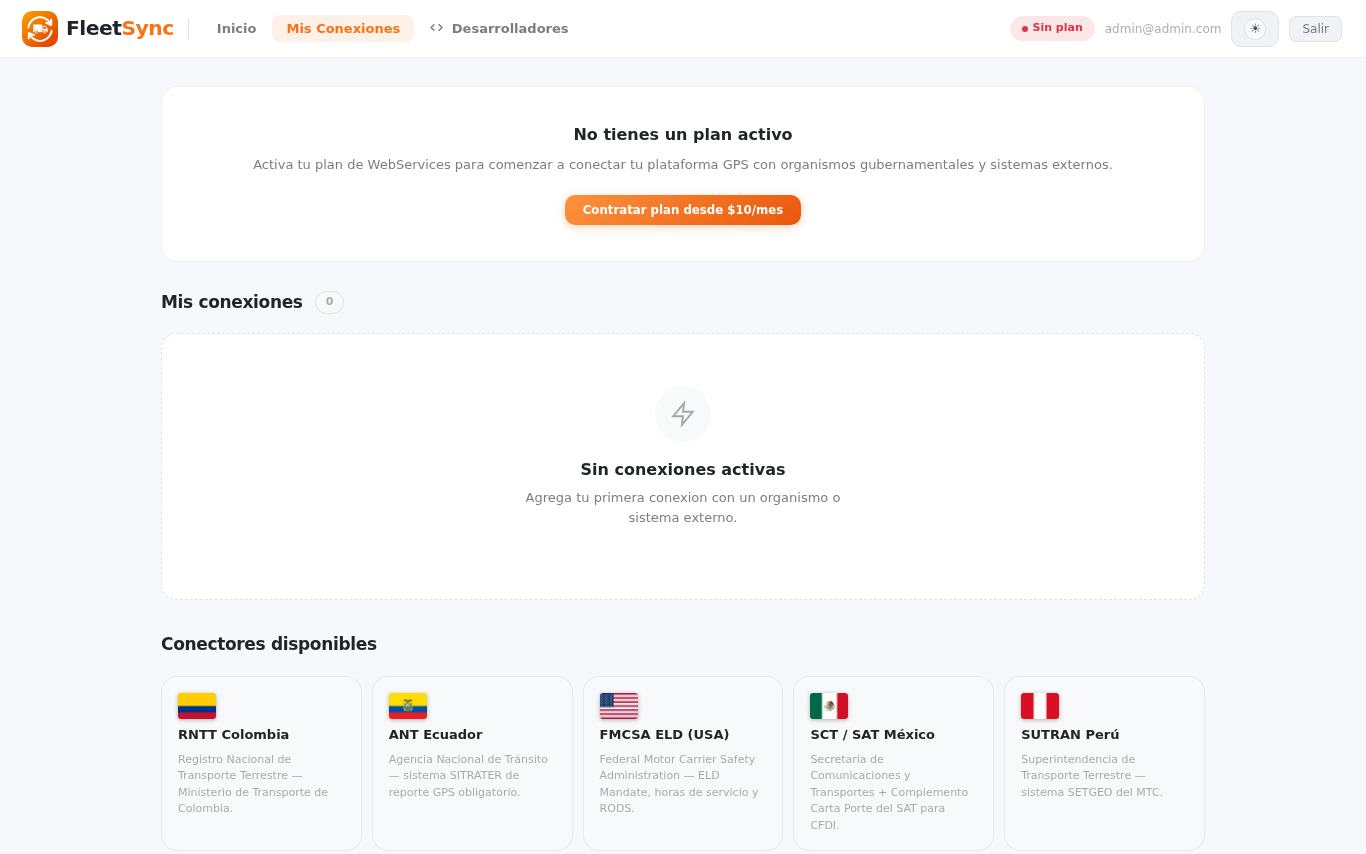
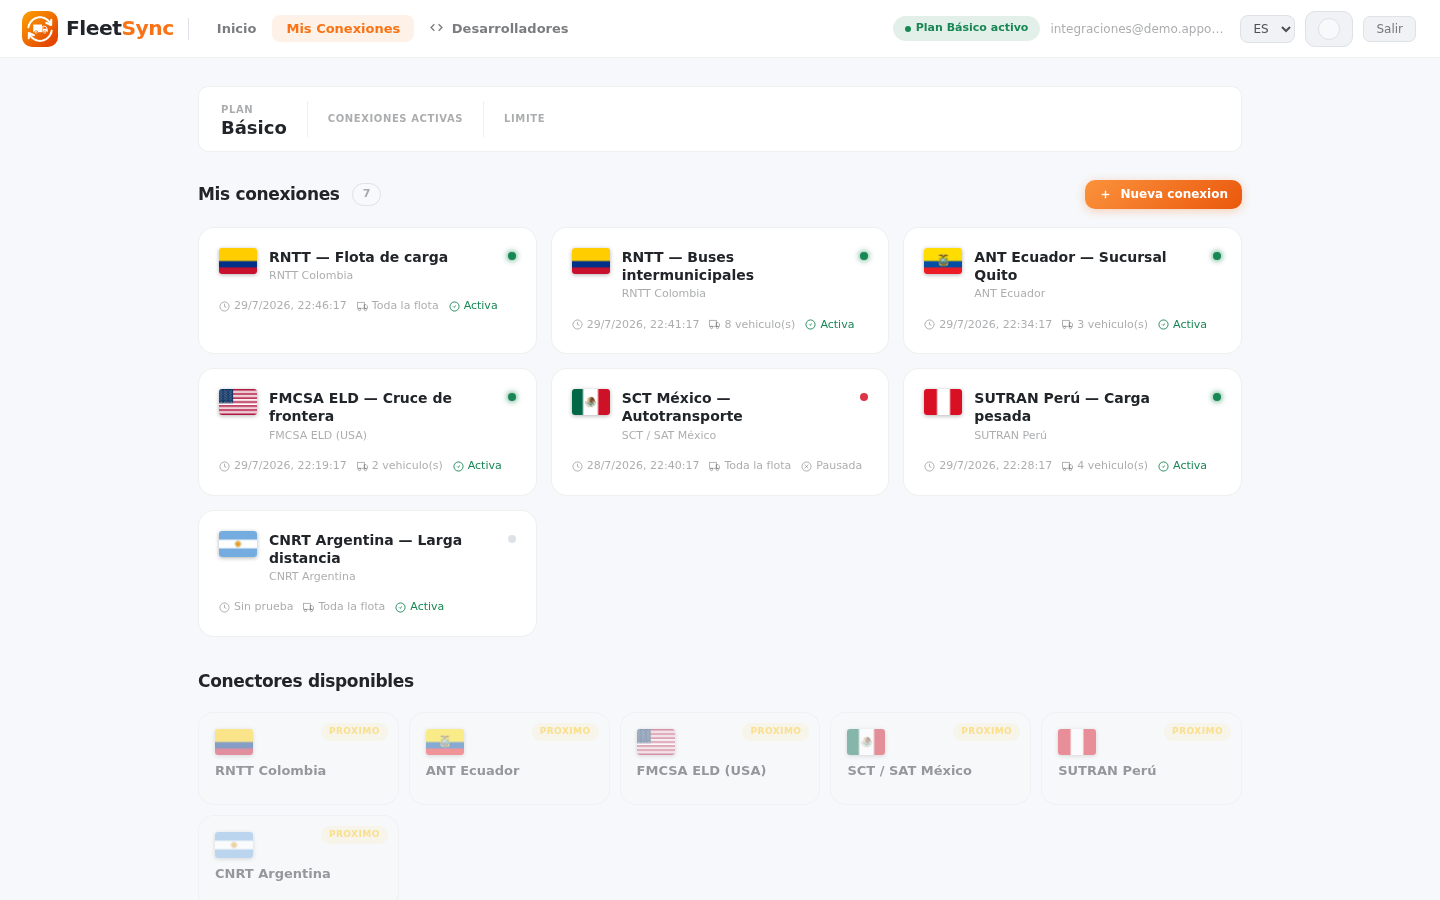
SchoolTrack a 6 pestanas y FleetSync con conexiones reales en pantalla
SchoolTrack tenia 7 capturas buenas en el servidor y la pagina solo mostraba 3:
se anaden Mapa en vivo, Vista de la familia y Vista del monitor (6 pestanas).

FleetSync mostraba "No tienes un plan activo" y "Sin conexiones activas". Ahora
muestra 7 conexiones con organismos (RNTT Colombia, ANT Ecuador, FMCSA ELD,
SCT Mexico, SUTRAN Peru, CNRT Argentina) con bandera, estado activa/pausada,
ultima prueba y vehiculos asignados, y el inicio con el plan activo.

Capturas hechas alimentando la pantalla desde el navegador: NO se escribio nada
en las bases de datos.

6 claves nuevas ES/PT/EN. Verificado en vivo en espanol e ingles: schooltrack
6 pestanas, fleetsync 3, 0 imagenes rotas, 0 claves crudas, 0 errores JS.

diff --git a/apps/schooltrack.html b/apps/schooltrack.html
@@ -291,6 +291,9 @@
         <button class="sc-feat active" data-img="../assets/images/schooltrack-admin.png"><strong data-i18n="sct_sc1t">Administración</strong><span data-i18n="sct_sc1s">Gestión de rutas, paradas y estudiantes</span></button>
         <button class="sc-feat" data-img="../assets/images/schooltrack-reporte.png"><strong data-i18n="sct_sc2t">Reportes de asistencia</strong><span data-i18n="sct_sc2s">Resumen, detalle y exportación CSV/PDF</span></button>
         <button class="sc-feat" data-img="../assets/images/schooltrack-carnes.png"><strong data-i18n="sct_sc3t">Carnés QR</strong><span data-i18n="sct_sc3s">Credencial por alumno con código QR</span></button>
+            <button class="sc-feat" data-img="../assets/images/schooltrack-mapa.png?v=20260623d"><strong data-i18n="sc_st_map_t">Mapa en vivo</strong><span data-i18n="sc_st_map_d">El bus en el mapa, con su velocidad y su próxima parada</span></button>
+            <button class="sc-feat" data-img="../assets/images/schooltrack-padre.png?v=20260623d"><strong data-i18n="sc_st_fam_t">Vista de la familia</strong><span data-i18n="sc_st_fam_d">El papá ve cuántos minutos faltan y avisa si su hijo no viaja</span></button>
+            <button class="sc-feat" data-img="../assets/images/schooltrack-monitor.png?v=20260623d"><strong data-i18n="sc_st_mon_t">Vista del monitor</strong><span data-i18n="sc_st_mon_d">Lista de abordaje, escaneo de carné y botón de pánico</span></button>
       </div>
     </div>
   </div>
@@ -420,7 +423,7 @@
     <span class="fi fi-es" id="float-flag"></span>
   </button>
 </div>
-<script src="../assets/js/i18n.js?v=1785354199"></script>
+<script src="../assets/js/i18n.js?v=1785358275"></script>
 <script src="../assets/js/main.js"></script>
 </body>
 </html>

diff --git a/assets/js/i18n.js b/assets/js/i18n.js
@@ -4,6 +4,12 @@
 
 const translations = {
   es: {
+    sc_st_map_t:'Mapa en vivo',
+    sc_st_map_d:'El bus en el mapa, con su velocidad y su próxima parada',
+    sc_st_fam_t:'Vista de la familia',
+    sc_st_fam_d:'El papá ve cuántos minutos faltan y avisa si su hijo no viaja',
+    sc_st_mon_t:'Vista del monitor',
+    sc_st_mon_d:'Lista de abordaje, escaneo de carné y botón de pánico',
     sc_cf_pan_t:'Panel de control',
     sc_cf_pan_d:'Cámaras, streams en vivo, almacenamiento y clientes de un vistazo',
     sc_cf_flo_t:'Flota de vehículos',
@@ -1615,6 +1621,12 @@ const translations = {
   },
 
   pt: {
+    sc_st_map_t:'Mapa ao vivo',
+    sc_st_map_d:'O ônibus no mapa, com sua velocidade e sua próxima parada',
+    sc_st_fam_t:'Visão da família',
+    sc_st_fam_d:'O pai vê quantos minutos faltam e avisa se o filho não viaja',
+    sc_st_mon_t:'Visão do monitor',
+    sc_st_mon_d:'Lista de embarque, leitura do crachá e botão de pânico',
     sc_cf_pan_t:'Painel de controle',
     sc_cf_pan_d:'Câmeras, streams ao vivo, armazenamento e clientes num relance',
     sc_cf_flo_t:'Frota de veículos',
@@ -3226,6 +3238,12 @@ const translations = {
   },
 
   en: {
+    sc_st_map_t:'Live map',
+    sc_st_map_d:'The bus on the map, with its speed and next stop',
+    sc_st_fam_t:'Family view',
+    sc_st_fam_d:'Parents see the minutes left and report if their child is not riding',
+    sc_st_mon_t:'Monitor view',
+    sc_st_mon_d:'Boarding list, badge scanning and panic button',
     sc_cf_pan_t:'Control panel',
     sc_cf_pan_d:'Cameras, live streams, storage and clients at a glance',
     sc_cf_flo_t:'Vehicle fleet',

diff --git a/apps/pesv.html b/apps/pesv.html
@@ -306,7 +306,7 @@
     <span class="fi fi-es" id="float-flag"></span>
   </button>
 </div>
-<script src="../assets/js/i18n.js?v=1785354199"></script>
+<script src="../assets/js/i18n.js?v=1785358275"></script>
 <script src="../assets/js/main.js"></script>
 <script>(function(){var bs=document.querySelectorAll(".sc-feat"),im=document.getElementById("sc-img");bs.forEach(function(b){b.addEventListener("click",function(){bs.forEach(function(x){x.classList.remove("active")});b.classList.add("active");im.src=b.getAttribute("data-img");});});})();</script>
 </body>

diff --git a/apps/satlink.html b/apps/satlink.html
@@ -306,7 +306,7 @@
     <span class="fi fi-es" id="float-flag"></span>
   </button>
 </div>
-<script src="../assets/js/i18n.js?v=1785354199"></script>
+<script src="../assets/js/i18n.js?v=1785358275"></script>
 <script src="../assets/js/main.js"></script>
 <script>(function(){var bs=document.querySelectorAll(".sc-feat"),im=document.getElementById("sc-img");bs.forEach(function(b){b.addEventListener("click",function(){bs.forEach(function(x){x.classList.remove("active")});b.classList.add("active");im.src=b.getAttribute("data-img");});});})();</script>
 </body>

diff --git a/apps/assettrack.html b/apps/assettrack.html
@@ -327,7 +327,7 @@
     <span class="fi fi-es" id="float-flag"></span>
   </button>
 </div>
-<script src="../assets/js/i18n.js?v=1785354199"></script>
+<script src="../assets/js/i18n.js?v=1785358275"></script>
 <script src="../assets/js/main.js"></script>
 </body>
 </html>

diff --git a/apps/camfleet.html b/apps/camfleet.html
@@ -337,7 +337,7 @@
     <span class="fi fi-es" id="float-flag"></span>
   </button>
 </div>
-<script src="../assets/js/i18n.js?v=1785354199"></script>
+<script src="../assets/js/i18n.js?v=1785358275"></script>
 <script src="../assets/js/main.js"></script>
 </body>
 </html>

diff --git a/apps/coldchain.html b/apps/coldchain.html
@@ -328,7 +328,7 @@
     <span class="fi fi-es" id="float-flag"></span>
   </button>
 </div>
-<script src="../assets/js/i18n.js?v=1785354199"></script>
+<script src="../assets/js/i18n.js?v=1785358275"></script>
 <script src="../assets/js/main.js"></script>
 </body>
 </html>

diff --git a/apps/developers.html b/apps/developers.html
@@ -305,7 +305,7 @@
     <span class="fi fi-es" id="float-flag"></span>
   </button>
 </div>
-<script src="../assets/js/i18n.js?v=1785354199"></script>
+<script src="../assets/js/i18n.js?v=1785358275"></script>
 <script src="../assets/js/main.js"></script>
 </body>
 </html>

diff --git a/apps/driveiq.html b/apps/driveiq.html
@@ -334,7 +334,7 @@
     <span class="fi fi-es" id="float-flag"></span>
   </button>
 </div>
-<script src="../assets/js/i18n.js?v=1785354199"></script>
+<script src="../assets/js/i18n.js?v=1785358275"></script>
 <script src="../assets/js/main.js"></script>
 </body>
 </html>

diff --git a/apps/fleetcare.html b/apps/fleetcare.html
@@ -305,7 +305,7 @@
     <span class="fi fi-es" id="float-flag"></span>
   </button>
 </div>
-<script src="../assets/js/i18n.js?v=1785354199"></script>
+<script src="../assets/js/i18n.js?v=1785358275"></script>
 <script src="../assets/js/main.js"></script>
 </body>
 </html>

diff --git a/apps/fleetops.html b/apps/fleetops.html
@@ -305,7 +305,7 @@
     <span class="fi fi-es" id="float-flag"></span>
   </button>
 </div>
-<script src="../assets/js/i18n.js?v=1785354199"></script>
+<script src="../assets/js/i18n.js?v=1785358275"></script>
 <script src="../assets/js/main.js"></script>
 </body>
 </html>

diff --git a/apps/fleetsync.html b/apps/fleetsync.html
@@ -305,7 +305,7 @@
     <span class="fi fi-es" id="float-flag"></span>
   </button>
 </div>
-<script src="../assets/js/i18n.js?v=1785354199"></script>
+<script src="../assets/js/i18n.js?v=1785358275"></script>
 <script src="../assets/js/main.js"></script>
 </body>
 </html>
